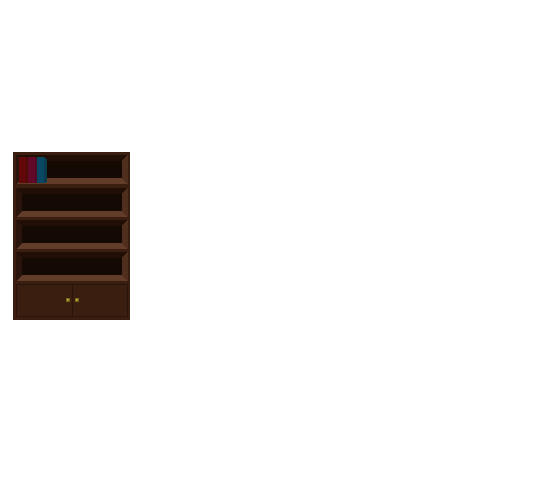
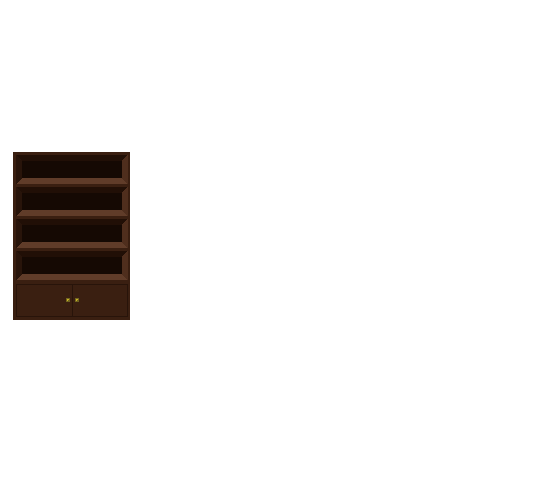
fix bookshelf

diff --git a/components/game.tsx b/components/game.tsx
@@ -24,7 +24,7 @@ export default () => {
       // console.log(time);
     }
   }
-  const [introVisible, setIntroVisible] = useState(false); // hatched?
+  const [introVisible, setIntroVisible] = useState(false); // needs to hatch
   const [daytime, setTime] = useState(true); // get local time?
   const window = {
     day: require("../assets/images/room_elements/sunny_day_window.png"),
@@ -100,10 +100,6 @@ export default () => {
                   ></Image>
                 </Pressable>
               </ImageBackground>
-              {/* <Image
-                style={styles.image}
-                source={require("../assets/images/room_elements/plant.png")}
-              ></Image> */}
             </ImageBackground>
           </GameLoop>
         </ImageBackground>
@@ -142,8 +138,8 @@ const styles = StyleSheet.create({
     width: (Screen.height * 1.125 * 0.95) / 8,
   },
   smallImage: {
-    height: (Screen.height * 0.95) / 10.8,
-    width: (Screen.height * 1.125 * 0.95) / 10.8,
+    height: (Screen.height * 0.95) / 12,
+    width: (Screen.height * 1.125 * 0.95) / 12,
   },
   tinyImage: {
     height: (Screen.height * 0.95) / 12,
@@ -159,8 +155,8 @@ const styles = StyleSheet.create({
   },
   books: {
     position: "absolute",
-    top: Screen.height * 0.95 - (Screen.height * 0.95) / 1.44,
-    left: Screen.height * 1.125 * 0.95 - (Screen.height * 1.125 * 0.95) / 1.03,
+    top: Screen.height * 0.95 - (Screen.height * 0.95) / 1.45,
+    left: Screen.height * 1.125 * 0.95 - (Screen.height * 1.125 * 0.95) / 1.035,
   },
   mirror: {
     position: "absolute",
